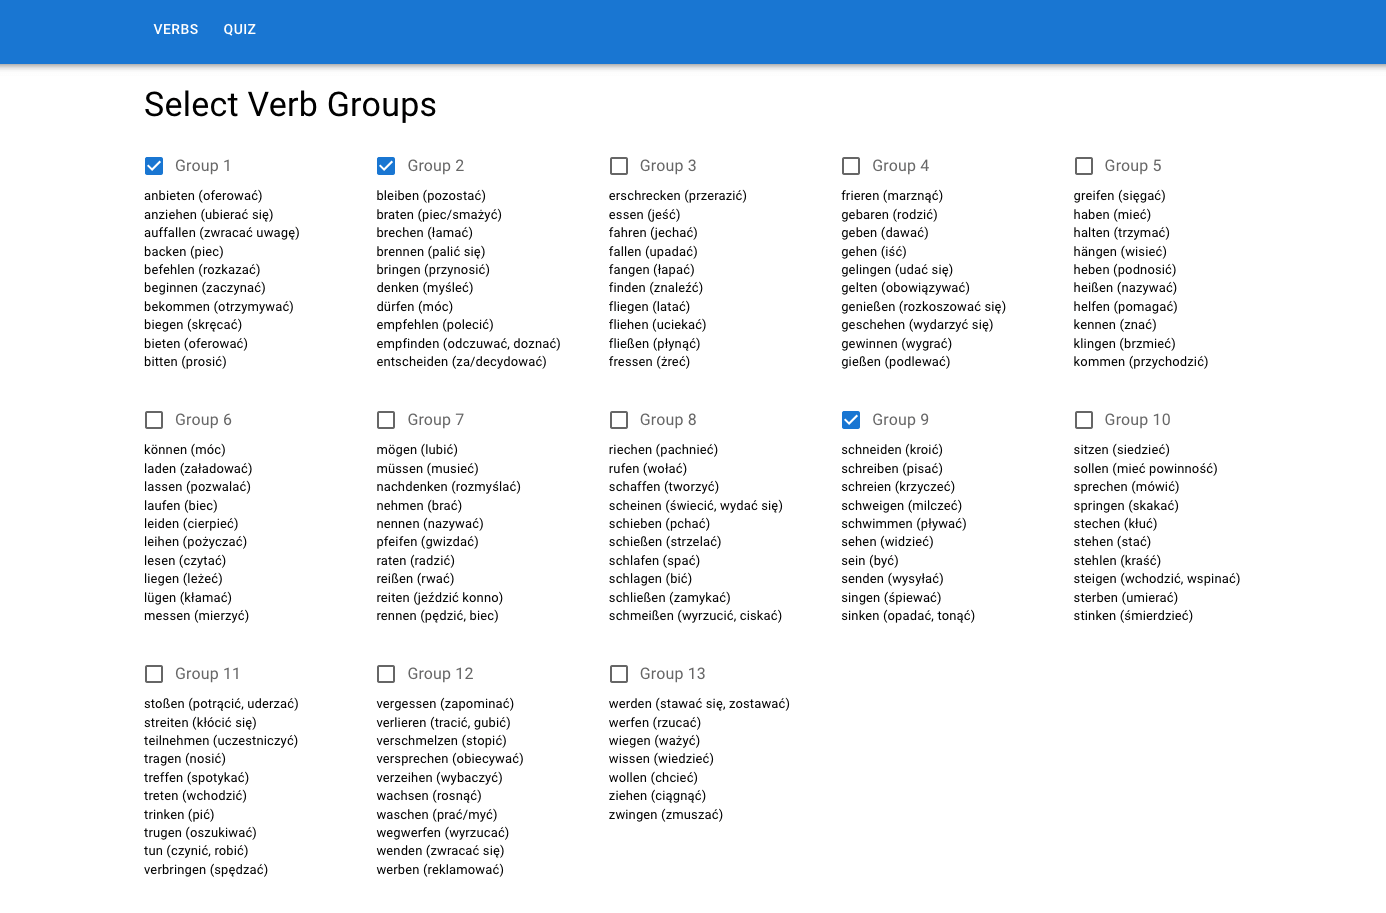
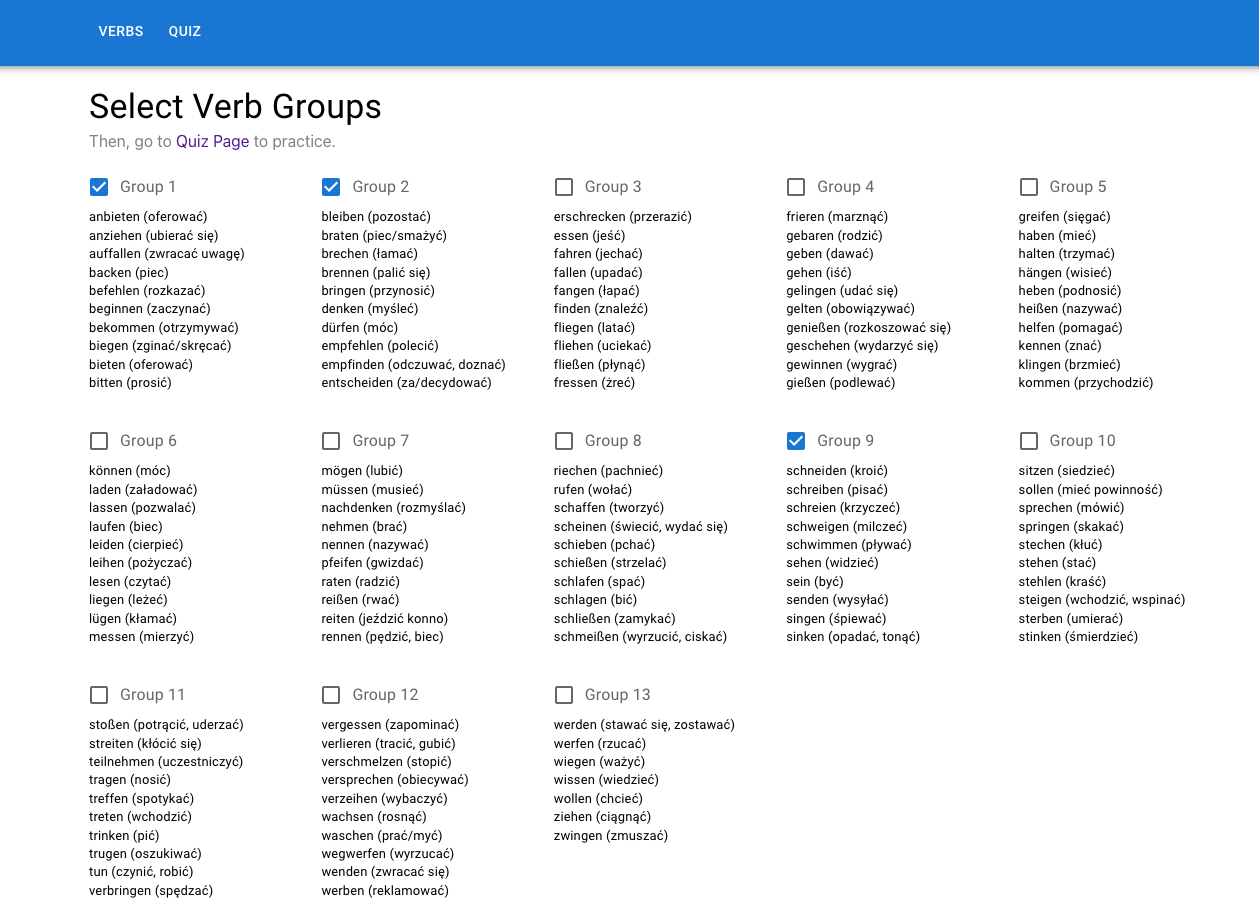
Add description to Select Verb Groups Page

diff --git a/src/views/select-view.jsx b/src/views/select-view.jsx
@@ -14,6 +14,8 @@ import {
 } from "@mui/material";
 import styledComponent from "styled-components";
 import { StoreContext } from "../store";
+import { views } from "../App";
+import { Link } from "react-router-dom";
 
 const DivGrid = styledComponent.div`
 	display: grid;
@@ -39,6 +41,8 @@ function SelectView() {
   const { selectedVerbGroups, setSelectedVerbGroups } = store;
   const verbsGrouped = getVerbsGrouped();
 
+  const quizRoute = views[1];
+
   const handleCheck = ({ target }) => {
     const { value, checked } = target;
 
@@ -53,8 +57,20 @@ function SelectView() {
 
   return (
     <Container>
-      <Typography variant="h4" as={"h1"} sx={{ margin: "20px 0" }}>
+      <Typography variant="h4" as={"h1"} sx={{ margin: "20px 0 5px" }}>
         Select Verb Groups
+      </Typography>
+      <Typography
+        display="block"
+        variant="p"
+        as={"p"}
+        sx={{ color: "gray", marginTop: 0, marginBottom: 2 }}
+      >
+        Then, go to{" "}
+        <Link to={quizRoute.route} style={{ textDecoration: "none" }}>
+          {quizRoute.name} Page
+        </Link>{" "}
+        to practice.
       </Typography>
       <DivGrid>
         {verbsGrouped.map((group, index) => (

diff --git a/src/App.js b/src/App.js
@@ -5,7 +5,7 @@ import QuizView from "./views/quiz-view";
 import { AppBar, Container, Button } from "@mui/material";
 import StoreProvider from "./store";
 
-const views = [
+export const views = [
   { name: "Verbs", route: "/" },
   { name: "Quiz", route: "/quiz" },
 ];

diff --git a/README.md b/README.md
@@ -1,6 +1,6 @@
 # German Verbs Past Participle Quiz
 
-The app has been uploaded on the Github Pages and is available at:  
+The app has been uploaded on the Github Pages and is available at:
 
 https://pbartkowiak-dev.github.io/past_participle/
 
